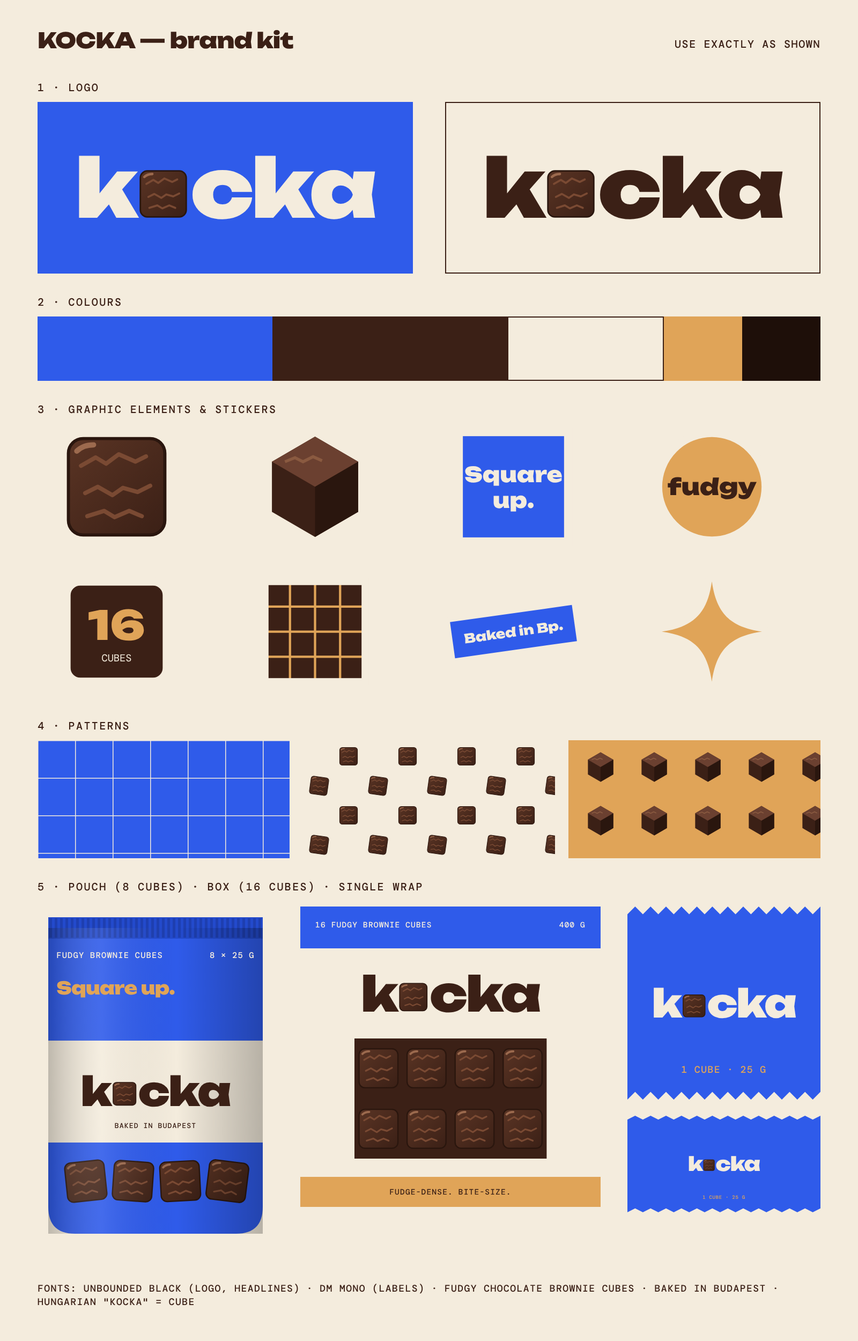
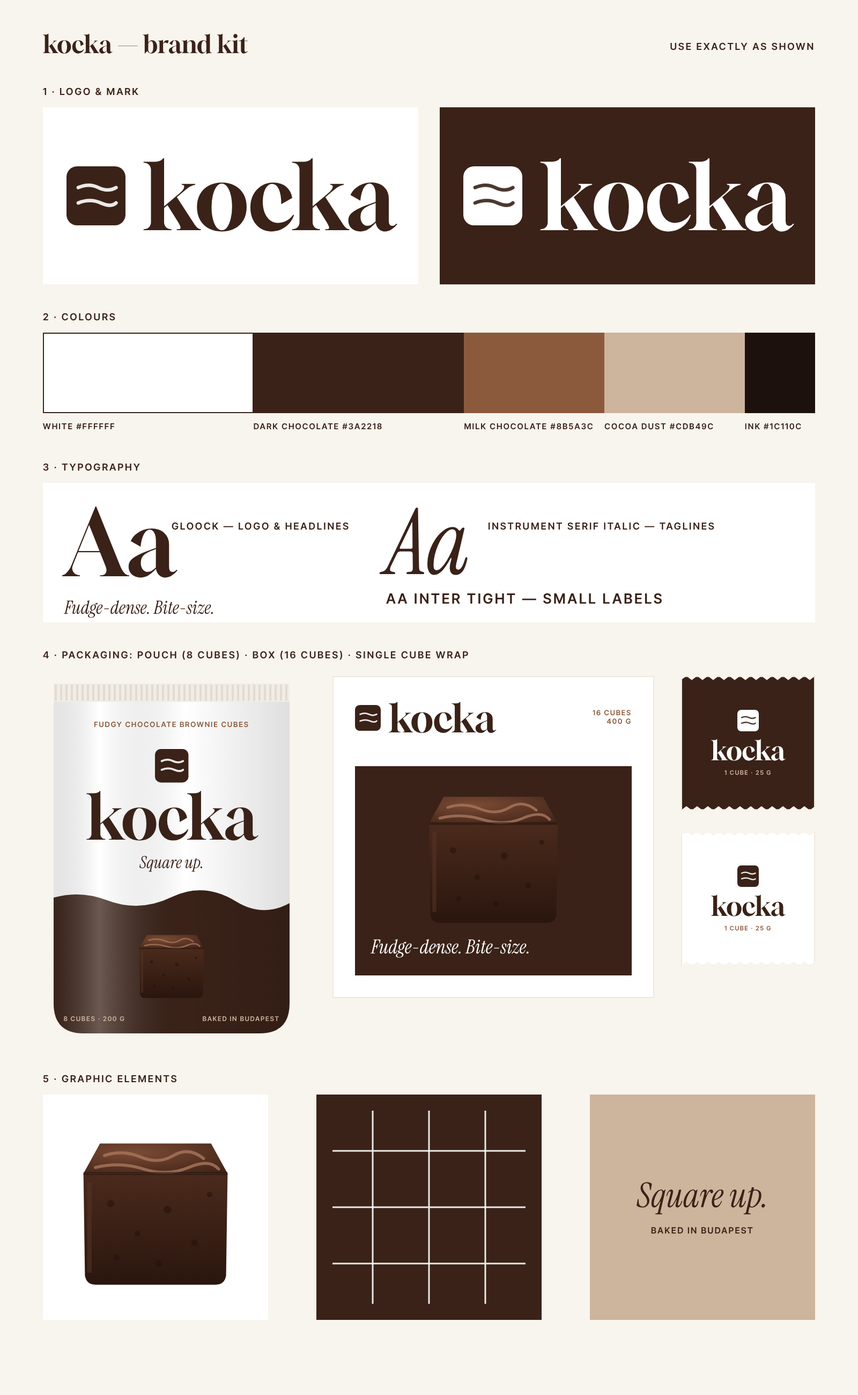
KOCKA v2: white + chocolate identity and packaging (cobalt version dropped)
Claude-Session: https://claude.ai/code/session_01FuZubXyqYQcha8AH4cMf93

diff --git a/reels/brands/kocka/kit.html b/reels/brands/kocka/kit.html
@@ -2,213 +2,120 @@
 <html lang="en">
 <head>
 <meta charset="utf-8">
-<title>KOCKA brand kit</title>
-<link href="https://fonts.googleapis.com/css2?family=Unbounded:wght@400;700;900&family=DM+Mono:wght@400;500&display=swap" rel="stylesheet">
+<title>KOCKA brand kit v2</title>
+<link href="https://fonts.googleapis.com/css2?family=Gloock&family=Instrument+Serif:ital@0;1&family=Inter+Tight:wght@500;600&display=swap" rel="stylesheet">
 <style>
-  :root{--choc:#3B2016;--cobalt:#2F5BEA;--cream:#F4ECDD;--caramel:#E0A458;--deep:#1E0F09}
+  /* KOCKA v2: white + chocolate. Premium, appetising, calm. */
+  :root{--white:#FFFFFF;--paper:#F8F4EE;--choc:#3A2218;--milk:#8B5A3C;--cocoa:#CDB49C;--ink:#1C110C}
   *{margin:0;padding:0;box-sizing:border-box}
   body{background:#222;width:1600px}
   section{position:relative;overflow:hidden}
   .abs{position:absolute}
   .center{display:flex;align-items:center;justify-content:center}
-  .ub{font-family:'Unbounded',sans-serif;font-weight:900;line-height:.95;letter-spacing:-.02em}
-  .mono{font-family:'DM Mono',monospace;font-weight:500;letter-spacing:.08em;text-transform:uppercase;line-height:1.4}
-  .label{font-family:'DM Mono';font-weight:500;font-size:20px;letter-spacing:.12em;color:var(--choc);text-transform:uppercase}
-  .lg{font-family:'Unbounded',sans-serif;font-weight:900;line-height:1;display:inline-flex;align-items:baseline;white-space:nowrap;letter-spacing:-.03em}
-  .lg .sq{display:inline-block;width:.62em;height:.62em;margin:0 .03em;position:relative;top:.01em}
+  .serif{font-family:'Gloock',serif;font-weight:400;line-height:.95}
+  .it{font-family:'Instrument Serif',serif;font-style:italic}
+  .sans{font-family:'Inter Tight',sans-serif;font-weight:600;letter-spacing:.14em;text-transform:uppercase}
+  .label{font-family:'Inter Tight';font-weight:600;font-size:18px;letter-spacing:.16em;color:var(--choc);text-transform:uppercase}
+  .lg{font-family:'Gloock',serif;line-height:1;white-space:nowrap;letter-spacing:-.01em}
   svg{overflow:visible}
-  .sk{width:1024px;height:1536px}
-  .shadow{box-shadow:16px 24px 34px rgba(30,15,9,.32)}
 </style>
 </head>
 <body>
 <svg width="0" height="0" style="position:absolute"><defs>
-  <!-- brownie square, viewBox -50 -50 100 100 -->
-  <linearGradient id="bt" x1="0" y1="0" x2="1" y2="1"><stop offset="0" stop-color="#5A3424"/><stop offset="1" stop-color="#3B2016"/></linearGradient>
-  <g id="brownie"><rect x="-46" y="-46" width="92" height="92" rx="14" fill="url(#bt)"/>
-    <path d="M-34 -20l14 -8 10 6 12 -9 16 7 10 -5M-30 6l12 -6 14 8 10 -7 14 4 12 -6M-28 28l16 -5 10 6 14 -6 12 5" fill="none" stroke="#7A4A33" stroke-width="4" stroke-linecap="round" stroke-linejoin="round"/>
-    <rect x="-46" y="-46" width="92" height="92" rx="14" fill="none" stroke="#2A160E" stroke-width="3"/>
-    <path d="M-38 -34q6 -6 16 -6" stroke="#9C6A4E" stroke-width="5" stroke-linecap="round" fill="none"/></g>
-  <!-- isometric cube -->
-  <g id="iso"><path d="M0 -50L43 -25V25L0 50L-43 25V-25Z" fill="#3B2016"/><path d="M0 -50L43 -25L0 0L-43 -25Z" fill="#6B4030"/><path d="M0 0L43 -25V25L0 50Z" fill="#2A160E"/>
-    <path d="M-30 -25l10 -4 8 4 10 -5 9 4" stroke="#8A5A40" stroke-width="3" fill="none"/></g>
+  <!-- brownie: a real-looking fudgy square seen slightly from above, viewBox -60 -60 120 120 -->
+  <linearGradient id="side" x1="0" y1="0" x2="0" y2="1"><stop offset="0" stop-color="#4A2A1C"/><stop offset="1" stop-color="#2A160E"/></linearGradient>
+  <radialGradient id="top" cx=".35" cy=".3" r=".9"><stop offset="0" stop-color="#7A4B34"/><stop offset=".55" stop-color="#5A3424"/><stop offset="1" stop-color="#3F2418"/></radialGradient>
+  <g id="brownie">
+    <path d="M-48 -26L-47 42Q-46 48 -40 48H40Q46 48 47 42L48 -26Z" fill="url(#side)"/>
+    <path d="M-48 -26L-37 -46H37L48 -26Z" fill="url(#top)"/>
+    <path d="M-34 -38Q-22 -42 -10 -37T12 -38T32 -36M-40 -30Q-24 -34 -8 -29T22 -30T42 -29" fill="none" stroke="#A3735A" stroke-width="2" stroke-linecap="round" opacity=".85"/>
+    <path d="M-48 -26H48" stroke="#2A160E" stroke-width="2" opacity=".6"/>
+    <g fill="#24120B" opacity=".55"><circle cx="-30" cy="-6" r="2.4"/><circle cx="-12" cy="14" r="2"/><circle cx="8" cy="-2" r="2.6"/><circle cx="26" cy="20" r="2.2"/><circle cx="-26" cy="30" r="2"/><circle cx="36" cy="-12" r="1.8"/><circle cx="2" cy="34" r="2.3"/></g>
+    <path d="M-44 -20V40" stroke="#5A3626" stroke-width="3" opacity=".5"/>
+  </g>
+  <!-- the mark: a simple rounded square, a brownie seen from above -->
+  <g id="mark"><rect x="-50" y="-50" width="100" height="100" rx="18" fill="currentColor"/>
+    <path d="M-30 -14Q-12 -22 4 -14T34 -14M-30 12Q-10 4 8 12T34 12" fill="none" stroke="var(--crack,#FFFFFF)" stroke-width="6" stroke-linecap="round" opacity=".9"/></g>
 </defs></svg>
 
 <!-- ================= KIT SHEET ================= -->
-<section data-out="brand-kit" style="width:1600px;height:2500px;background:var(--cream)">
-  <div class="abs ub" style="top:56px;left:70px;font-size:40px;color:var(--choc)">KOCKA — brand kit</div>
-  <div class="abs mono" style="top:68px;right:70px;font-size:20px;color:var(--choc)">Use exactly as shown</div>
+<section data-out="brand-kit" style="width:1600px;height:2600px;background:var(--paper)">
+  <div class="abs serif" style="top:60px;left:80px;font-size:46px;color:var(--choc)">kocka — brand kit</div>
+  <div class="abs label" style="top:76px;right:80px">Use exactly as shown</div>
 
-  <div class="abs label" style="top:150px;left:70px">1 · Logo</div>
-  <div class="abs center" style="top:190px;left:70px;width:700px;height:320px;background:var(--cobalt);color:var(--cream)"><div class="lg" style="font-size:150px"></div></div>
-  <div class="abs center" style="top:190px;left:830px;width:700px;height:320px;background:var(--cream);outline:2px solid var(--choc);outline-offset:-2px;color:var(--choc)"><div class="lg" style="font-size:150px"></div></div>
+  <div class="abs label" style="top:160px;left:80px">1 · Logo &amp; mark</div>
+  <div class="abs center" style="top:200px;left:80px;width:700px;height:330px;background:var(--white);color:var(--choc);gap:34px">
+    <svg width="110" height="110" viewBox="-50 -50 100 100" style="color:#3A2218"><use href="#mark"/></svg><div class="lg" style="font-size:170px">kocka</div></div>
+  <div class="abs center" style="top:200px;left:820px;width:700px;height:330px;background:var(--choc);color:var(--white);gap:34px">
+    <svg width="110" height="110" viewBox="-50 -50 100 100" style="color:#FFFFFF;--crack:#3A2218"><use href="#mark"/></svg><div class="lg" style="font-size:170px">kocka</div></div>
 
-  <div class="abs label" style="top:550px;left:70px">2 · Colours</div>
-  <div class="abs" style="top:590px;left:70px;width:1460px;height:120px;display:flex">
-    <div style="flex:3;background:var(--cobalt)"></div><div style="flex:3;background:var(--choc)"></div><div style="flex:2;background:var(--cream);outline:2px solid var(--choc);outline-offset:-2px"></div><div style="flex:1;background:var(--caramel)"></div><div style="flex:1;background:var(--deep)"></div></div>
+  <div class="abs label" style="top:580px;left:80px">2 · Colours</div>
+  <div class="abs" style="top:620px;left:80px;width:1440px;height:150px;display:flex;gap:0">
+    <div style="flex:3;background:#FFFFFF;outline:2px solid #3A2218;outline-offset:-2px"></div><div style="flex:3;background:#3A2218"></div><div style="flex:2;background:#8B5A3C"></div><div style="flex:2;background:#CDB49C"></div><div style="flex:1;background:#1C110C"></div></div>
+  <div class="abs sans" style="top:785px;left:80px;width:1440px;display:flex;font-size:15px;color:var(--choc)">
+    <div style="flex:3">White #FFFFFF</div><div style="flex:3">Dark chocolate #3A2218</div><div style="flex:2">Milk chocolate #8B5A3C</div><div style="flex:2">Cocoa dust #CDB49C</div><div style="flex:1">Ink #1C110C</div></div>
 
-  <div class="abs label" style="top:750px;left:70px">3 · Graphic elements &amp; stickers</div>
-  <svg class="abs" width="1460" height="520" style="top:790px;left:70px" data-stickers></svg>
+  <div class="abs label" style="top:860px;left:80px">3 · Typography</div>
+  <div class="abs" style="top:900px;left:80px;width:1440px;height:260px;background:var(--white);color:var(--choc)">
+    <div class="abs serif" style="left:40px;top:30px;font-size:170px">Aa</div><div class="abs label" style="left:240px;top:70px">Gloock — logo &amp; headlines</div>
+    <div class="abs it" style="left:640px;top:28px;font-size:170px;line-height:1">Aa</div><div class="abs label" style="left:830px;top:70px">Instrument Serif Italic — taglines</div>
+    <div class="abs sans" style="left:640px;top:200px;font-size:26px">Aa Inter Tight — small labels</div>
+    <div class="abs it" style="left:40px;top:210px;font-size:34px">Fudge-dense. Bite-size.</div></div>
 
-  <div class="abs label" style="top:1340px;left:70px">4 · Patterns</div>
-  <svg class="abs" width="1460" height="220" style="top:1380px;left:70px">
-    <defs>
-      <pattern id="p-grid" width="70" height="70" patternUnits="userSpaceOnUse"><rect width="70" height="70" fill="#2F5BEA"/><path d="M0 0H70M0 0V70" stroke="#F4ECDD" stroke-width="3"/></pattern>
-      <pattern id="p-sq" width="110" height="110" patternUnits="userSpaceOnUse"><rect width="110" height="110" fill="#F4ECDD"/><use href="#brownie" transform="translate(30 30) scale(.36)"/><use href="#brownie" transform="translate(85 85) scale(.36) rotate(8)"/></pattern>
-      <pattern id="p-iso" width="100" height="100" patternUnits="userSpaceOnUse"><rect width="100" height="100" fill="#E0A458"/><use href="#iso" transform="translate(50 50) scale(.55)"/></pattern>
-    </defs>
-    <rect width="470" height="220" fill="url(#p-grid)"/><rect x="495" width="470" height="220" fill="url(#p-sq)"/><rect x="990" width="470" height="220" fill="url(#p-iso)"/>
+  <div class="abs label" style="top:1210px;left:80px">4 · Packaging: pouch (8 cubes) · box (16 cubes) · single cube wrap</div>
+  <div class="abs" style="top:1260px;left:80px;width:480px;height:680px" data-pouch></div>
+  <div class="abs" style="top:1260px;left:620px;width:600px;height:600px" data-box></div>
+  <div class="abs" style="top:1260px;left:1270px;width:250px;height:250px" data-wrap></div>
+  <div class="abs" style="top:1550px;left:1270px;width:250px;height:250px" data-wrap="white"></div>
+
+  <div class="abs label" style="top:2000px;left:80px">5 · Graphic elements</div>
+  <svg class="abs" width="1440" height="420" style="top:2040px;left:80px">
+    <rect width="420" height="420" fill="#FFFFFF"/><use href="#brownie" transform="translate(210 220) scale(2.8)"/>
+    <rect x="510" width="420" height="420" fill="#3A2218"/>
+    <rect x="1020" width="420" height="420" fill="#CDB49C"/>
   </svg>
-
-  <div class="abs label" style="top:1640px;left:70px">5 · Pouch (8 cubes) · Box (16 cubes) · Single wrap</div>
-  <div class="abs" style="top:1690px;left:70px;width:440px;height:620px" data-pouch></div>
-  <div class="abs" style="top:1690px;left:560px;width:560px;height:560px" data-box></div>
-  <div class="abs" style="top:1690px;left:1170px;width:360px;height:360px" data-wrap></div>
-  <div class="abs" style="top:2080px;left:1170px;width:360px;height:180px" data-wrap="flat"></div>
-  <div class="abs mono" style="top:2390px;left:70px;right:70px;font-size:18px;color:var(--choc)">Fonts: Unbounded Black (logo, headlines) · DM Mono (labels) · Fudgy chocolate brownie cubes · Baked in Budapest · Hungarian "kocka" = cube</div>
-</section>
-
-<!-- ================= SCENE SKETCHES (1024x1536) ================= -->
-<section data-out="sk-0-monitor" class="sk" style="background:#CFC6B8">
-  <div class="abs" style="left:0;right:0;top:1050px;bottom:0;background:linear-gradient(#B98A5E,#9C6E46)"></div>
-  <div class="abs" style="left:60px;right:60px;top:170px;height:760px;background:#1A1A1C;border-radius:22px"></div>
-  <div class="abs" style="left:92px;right:92px;top:200px;height:690px;background:#2F5BEA"></div>
-  <div class="abs" style="left:452px;top:930px;width:120px;height:110px;background:#2A2A2C"></div>
-  <div class="abs" style="left:372px;top:1040px;width:280px;height:24px;border-radius:12px;background:#2A2A2C"></div>
-  <div class="abs" style="left:120px;top:1180px;width:560px;height:150px;border-radius:12px;background:#E8E4DC;box-shadow:0 10px 20px rgba(0,0,0,.25)"></div>
-  <div class="abs" style="left:720px;top:1090px;width:200px;height:290px;transform:rotate(8deg)" data-pouch></div>
-  <svg class="abs" width="200" height="200" style="left:610px;top:1300px"><use href="#brownie" transform="translate(70 70) scale(.9) rotate(-10)"/></svg>
-</section>
-
-<section data-out="sk-1-pouch-tear" class="sk" style="background:#2F5BEA">
-  <div class="abs shadow" style="left:262px;top:360px;width:500px;height:700px;transform:rotate(-6deg)" data-pouch></div>
-  <svg class="abs" width="1024" height="1536">
-    <use href="#brownie" transform="translate(470 300) scale(1.1) rotate(-12)"/><use href="#brownie" transform="translate(600 230) scale(.9) rotate(14)"/>
-  </svg>
-</section>
-
-<section data-out="sk-2-shelf" class="sk" style="background:#EDEAE4">
-  <div class="abs" style="left:0;right:0;top:0;height:120px;background:#F7F5F0"></div>
-  <div data-shelf></div>
-</section>
-
-<section data-out="sk-3-cube-closeup" class="sk" style="background:#E0A458">
-  <div class="abs" style="left:620px;top:200px;width:330px;height:460px;filter:blur(3px);opacity:.9" data-pouch></div>
-  <svg class="abs" width="1024" height="1536"><use href="#brownie" transform="translate(500 820) scale(4.6) rotate(-6)"/></svg>
-</section>
-
-<section data-out="sk-4-box-top" class="sk" style="background:#F4ECDD">
-  <div class="abs shadow" style="left:112px;top:368px;width:800px;height:800px;background:#3B2016;border:18px solid #2F5BEA"></div>
-  <svg class="abs" width="1024" height="1536" data-boxtop></svg>
-</section>
-
-<section data-out="sk-5-floating" class="sk" style="background:#2F5BEA">
-  <div class="abs" style="left:300px;top:430px;width:430px;height:600px;transform:rotate(10deg);box-shadow:20px 30px 40px rgba(0,0,0,.3)" data-pouch></div>
-  <svg class="abs" width="1024" height="1536">
-    <use href="#brownie" transform="translate(200 300) scale(1.2) rotate(-20)"/><use href="#brownie" transform="translate(820 360) scale(1) rotate(25)"/>
-    <use href="#brownie" transform="translate(180 1150) scale(1.3) rotate(15)"/><use href="#brownie" transform="translate(830 1180) scale(1.1) rotate(-14)"/>
-    <use href="#brownie" transform="translate(520 1300) scale(.8) rotate(32)"/></svg>
-</section>
-
-<section data-out="sk-6-basket" class="sk" style="background:#F4ECDD">
-  <div class="abs" style="left:110px;top:560px;width:800px;height:620px;background:#2F5BEA;border-radius:30px 30px 60px 60px"></div>
-  <div class="abs" style="left:260px;top:360px;width:500px;height:300px;border:26px solid #234ACC;border-bottom:none;border-radius:250px 250px 0 0"></div>
-  <div class="abs" style="left:190px;top:380px;width:330px;height:330px;transform:rotate(-8deg)" data-box></div>
-  <div class="abs" style="left:540px;top:330px;width:230px;height:330px;transform:rotate(9deg)" data-pouch></div>
-  <div class="abs" style="left:110px;top:640px;width:800px;height:540px;background:repeating-linear-gradient(90deg,#2F5BEA 0 70px,#234ACC 70px 90px);border-radius:0 0 60px 60px"></div>
-</section>
-
-<section data-out="sk-7-still-life" class="sk" style="background:#F4ECDD">
-  <div class="abs" style="left:0;right:0;top:1100px;bottom:0;background:#E9DFCC"></div>
-  <div class="abs" style="left:90px;top:900px;width:420px;height:300px;background:#E0A458"></div>
-  <div class="abs" style="left:520px;top:780px;width:420px;height:420px;background:#2F5BEA"></div>
-  <div class="abs shadow" style="left:110px;top:470px;width:380px;height:430px" data-pouch></div>
-  <div class="abs shadow" style="left:560px;top:420px;width:340px;height:340px" data-box></div>
-  <svg class="abs" width="1024" height="1536"><use href="#brownie" transform="translate(300 1300) scale(1.1) rotate(-8)"/><use href="#brownie" transform="translate(470 1330) scale(.95) rotate(12)"/><use href="#brownie" transform="translate(760 1310) scale(1.05) rotate(4)"/></svg>
-</section>
-
-<section data-out="sk-8-wraps" class="sk" style="background:#3B2016">
-  <div data-wrappile></div>
-</section>
-
-<section data-out="sk-9-billboard" class="sk" style="background:#9DB4CF">
-  <div class="abs" style="left:0;right:0;top:1180px;bottom:0;background:#8E8C88"></div>
-  <div class="abs" style="left:150px;top:210px;width:724px;height:1010px;background:#2A2A2C;border-radius:10px"></div>
-  <div class="abs" style="left:180px;top:240px;width:664px;height:950px;background:#2F5BEA;overflow:hidden">
-    <div class="abs ub" style="left:40px;top:50px;font-size:118px;color:#F4ECDD;line-height:.9">Square<br>up.</div>
-    <div class="abs" style="left:300px;top:380px;width:330px;height:470px;transform:rotate(8deg)" data-pouch></div>
-    <svg class="abs" width="664" height="950"><use href="#brownie" transform="translate(150 640) scale(1.9) rotate(-10)"/></svg>
-    <div class="abs center" style="left:30px;bottom:30px;color:#F4ECDD"><div class="lg" style="font-size:60px"></div></div>
-  </div>
-  <div class="abs" style="left:480px;top:1220px;width:64px;height:316px;background:#2A2A2C"></div>
-</section>
-
-<section data-out="sk-10-lunchbox" class="sk" style="background:#E0A458">
-  <div class="abs shadow" style="left:120px;top:420px;width:784px;height:700px;background:#F4ECDD;border-radius:40px;border:14px solid #FFFFFF"></div>
-  <div class="abs" style="left:170px;top:470px;width:330px;height:600px;background:#CFE0B4;border-radius:24px"></div>
-  <div class="abs" style="left:540px;top:470px;width:320px;height:290px;background:#F7F3EA;border-radius:24px"></div>
-  <div class="abs" style="left:560px;top:490px;width:280px;height:250px" data-wrap></div>
-  <svg class="abs" width="1024" height="1536"><use href="#brownie" transform="translate(620 900) scale(1.1) rotate(-6)"/><use href="#brownie" transform="translate(780 940) scale(1.1) rotate(10)"/></svg>
-</section>
-
-<section data-out="sk-11-box-hand" class="sk" style="background:#EDEAE4">
-  <div class="abs shadow" style="left:212px;top:420px;width:600px;height:600px;transform:rotate(-4deg)" data-box></div>
+  <div class="abs" style="top:2040px;left:590px;width:420px;height:420px;color:#FFFFFF" data-grid></div>
+  <div class="abs center" style="top:2040px;left:1100px;width:420px;height:420px;flex-direction:column;color:#3A2218;text-align:center">
+    <div class="it" style="font-size:64px;line-height:1">Square up.</div><div class="sans" style="font-size:16px;margin-top:22px">Baked in Budapest</div></div>
 </section>
 
 <script>
-const NS='http://www.w3.org/2000/svg';
-const SQ=`<svg class="sq" viewBox="-50 -50 100 100"><use href="#brownie"/></svg>`;
-const LOGO=`<span>k</span>${SQ}<span>cka</span>`;
-const STICKERS={
-  brownie:`<use href="#brownie" transform="translate(150 150) scale(2.3)"/>`,
-  iso:`<use href="#iso" transform="translate(150 150) scale(2.2)"/>`,
-  squareup:`<rect x="30" y="30" width="240" height="240" fill="#2F5BEA" stroke="#F4ECDD" stroke-width="18"/><text x="150" y="140" text-anchor="middle" font-family="Unbounded" font-weight="900" font-size="46" fill="#F4ECDD">Square</text><text x="150" y="196" text-anchor="middle" font-family="Unbounded" font-weight="900" font-size="46" fill="#F4ECDD">up.</text>`,
-  fudgy:`<circle cx="150" cy="150" r="118" fill="#E0A458" stroke="#F4ECDD" stroke-width="18"/><text x="150" y="168" text-anchor="middle" font-family="Unbounded" font-weight="900" font-size="50" fill="#3B2016">fudgy</text>`,
-  sixteen:`<rect x="40" y="40" width="220" height="220" rx="30" fill="#3B2016" stroke="#F4ECDD" stroke-width="18"/><text x="150" y="168" text-anchor="middle" font-family="Unbounded" font-weight="900" font-size="88" fill="#E0A458">16</text><text x="150" y="215" text-anchor="middle" font-family="DM Mono" font-size="22" fill="#F4ECDD">CUBES</text>`,
-  grid:`<g transform="translate(40 40)"><rect width="220" height="220" fill="#3B2016"/>${[0,1,2,3].map(i=>`<path d="M${i*55} 0V220M0 ${i*55}H220" stroke="#E0A458" stroke-width="5"/>`).join('')}<rect width="220" height="220" fill="none" stroke="#F4ECDD" stroke-width="16"/></g>`,
-  bp:`<g transform="rotate(-8 150 150)"><rect x="5" y="100" width="290" height="100" fill="#F4ECDD"/><rect x="15" y="110" width="270" height="80" fill="#2F5BEA"/><text x="150" y="161" text-anchor="middle" font-family="Unbounded" font-weight="900" font-size="28" fill="#F4ECDD">Baked in Bp.</text></g>`,
-  spark:`<path d="M150 40C160 110 190 140 260 150C190 160 160 190 150 260C140 190 110 160 40 150C110 140 140 110 150 40Z" fill="#E0A458" stroke="#F4ECDD" stroke-width="30" stroke-linejoin="round" paint-order="stroke"/>`,
-};
-function drawSticker(svg,key,x,y,s=1,rot=0){const g=document.createElementNS(NS,'g');g.setAttribute('transform',`translate(${x} ${y}) rotate(${rot} ${150*s} ${150*s}) scale(${s})`);g.innerHTML=STICKERS[key];svg.appendChild(g);}
-document.querySelectorAll('[data-stickers]').forEach(svg=>Object.keys(STICKERS).forEach((k,i)=>drawSticker(svg,k,(i%4)*370+20,Math.floor(i/4)*270-10,.85)));
-// box top-down: 16 brownies in grid
-document.querySelectorAll('[data-boxtop]').forEach(s=>{s.innerHTML=Array.from({length:16},(_,i)=>`<use href="#brownie" transform="translate(${242+(i%4)*180} ${498+Math.floor(i/4)*180}) scale(1.62) rotate(${(i*37%9)-4})"/>`).join('');});
-// supermarket shelf of pouches and boxes
-document.querySelectorAll('[data-shelf]').forEach(el=>{let h='';for(let r=0;r<3;r++){const y=170+r*450;h+=`<div class="abs" style="left:0;right:0;top:${y+400}px;height:40px;background:#D9D4CA;box-shadow:0 8px 12px rgba(0,0,0,.2)"></div>`;
-  for(let c=0;c<5;c++){h+= r===1?`<div class="abs" style="left:${20+c*200}px;top:${y+190}px;width:190px;height:210px" data-box></div>`:`<div class="abs" style="left:${25+c*200}px;top:${y+130}px;width:180px;height:270px" data-pouch></div>`;}}
-  el.innerHTML=h;});
-// wrap pile
-document.querySelectorAll('[data-wrappile]').forEach(el=>{let h='';[[120,260,-12],[420,210,8],[690,300,-5],[200,620,10],[520,560,-14],[760,700,6],[110,980,-4],[430,920,12],[700,1060,-9],[300,1250,5],[620,1300,-7]].forEach(p=>{h+=`<div class="abs" style="left:${p[0]}px;top:${p[1]}px;width:250px;height:250px;transform:rotate(${p[2]}deg);box-shadow:10px 14px 20px rgba(0,0,0,.35)" data-wrap></div>`;});el.innerHTML=h;});
-const fill=(sel,fn)=>document.querySelectorAll(sel).forEach(el=>{if(!el.style.position)el.style.position='absolute';el.innerHTML=fn(el.offsetWidth,el.offsetHeight,el);});
-// stand-up pouch: cobalt, crimped top seal, cream panel with logo, brownie window
-fill('[data-pouch]',(w,h)=>`<svg width="${w}" height="${h}" viewBox="0 0 440 620" preserveAspectRatio="none" style="position:absolute;inset:0">
-  <defs><linearGradient id="ps${w}" x1="0" x2="1"><stop offset="0" stop-color="#000" stop-opacity=".22"/><stop offset=".25" stop-color="#fff" stop-opacity=".10"/><stop offset=".6" stop-color="#000" stop-opacity="0"/><stop offset="1" stop-color="#000" stop-opacity=".25"/></linearGradient></defs>
-  <path d="M20 40H420V560Q420 610 370 610H70Q20 610 20 560Z" fill="#2F5BEA"/>
-  <rect x="20" y="20" width="400" height="40" fill="#234ACC"/>${Array.from({length:40},(_,i)=>`<rect x="${22+i*10}" y="22" width="5" height="36" fill="#1E3FB0"/>`).join('')}
-  <rect x="20" y="250" width="400" height="190" fill="#F4ECDD"/>
-  <g>${[0,1,2,3].map(i=>`<use href="#brownie" transform="translate(${90+i*88} 512) scale(.8) rotate(${[-6,4,-3,7][i]})"/>`).join('')}</g>
-  <rect x="20" y="40" width="400" height="570" fill="url(#ps${w})"/></svg>
-  <div class="mono" style="position:absolute;left:${w*.08}px;top:${h*.13}px;font-size:${w*.035}px;color:#F4ECDD">Fudgy brownie cubes</div>
-  <div class="mono" style="position:absolute;right:${w*.08}px;top:${h*.13}px;font-size:${w*.035}px;color:#F4ECDD;text-align:right">8 × 25 g</div>
-  <div class="ub" style="position:absolute;left:${w*.08}px;top:${h*.22}px;font-size:${w*.075}px;color:#E0A458">Square up.</div>
-  <div class="center" style="position:absolute;left:0;right:0;top:${h*.4}px;height:${h*.31}px;color:#3B2016"><div class="lg" style="font-size:${w*.17}px"></div></div>
-  <div class="mono" style="position:absolute;left:0;right:0;top:${h*.645}px;text-align:center;font-size:${w*.03}px;color:#3B2016">Baked in Budapest</div>`);
-// box of 16: square box, chocolate band, grid window
-fill('[data-box]',(w,h)=>`<div style="position:absolute;inset:0;background:#F4ECDD;overflow:hidden;color:#3B2016">
-  <div style="position:absolute;left:0;right:0;top:0;height:${h*.14}px;background:#2F5BEA"></div>
-  <div class="mono" style="position:absolute;left:${w*.05}px;top:${h*.045}px;font-size:${w*.026}px;color:#F4ECDD">16 fudgy brownie cubes</div>
-  <div class="mono" style="position:absolute;right:${w*.05}px;top:${h*.045}px;font-size:${w*.026}px;color:#F4ECDD">400 g</div>
-  <div class="center" style="position:absolute;left:0;right:0;top:${h*.18}px;height:${h*.22}px"><div class="lg" style="font-size:${w*.16}px"></div></div>
-  <svg style="position:absolute;left:${w*.18}px;top:${h*.44}px" width="${w*.64}" height="${w*.4}" viewBox="0 0 400 250"><rect width="400" height="250" fill="#3B2016"/>
-   ${Array.from({length:8},(_,i)=>`<use href="#brownie" transform="translate(${50+(i%4)*100} ${62+Math.floor(i/4)*126}) scale(.88)"/>`).join('')}</svg>
-  <div style="position:absolute;left:0;right:0;bottom:0;height:${h*.1}px;background:#E0A458"></div>
-  <div class="mono" style="position:absolute;left:0;right:0;bottom:${h*.03}px;text-align:center;font-size:${w*.026}px">Fudge-dense. Bite-size.</div></div>`);
-// single wrap: small square foil pack
-fill('[data-wrap]',(w,h,el)=>{const flat=el.dataset.wrap==='flat';return `<div style="position:absolute;inset:0;background:#2F5BEA;overflow:hidden;color:#F4ECDD;clip-path:polygon(0 4%,4% 0,8% 4%,12% 0,16% 4%,20% 0,24% 4%,28% 0,32% 4%,36% 0,40% 4%,44% 0,48% 4%,52% 0,56% 4%,60% 0,64% 4%,68% 0,72% 4%,76% 0,80% 4%,84% 0,88% 4%,92% 0,96% 4%,100% 0,100% 96%,96% 100%,92% 96%,88% 100%,84% 96%,80% 100%,76% 96%,72% 100%,68% 96%,64% 100%,60% 96%,56% 100%,52% 96%,48% 100%,44% 96%,40% 100%,36% 96%,32% 100%,28% 96%,24% 100%,20% 96%,16% 100%,12% 96%,8% 100%,4% 96%,0 100%)">
-  <div class="center" style="position:absolute;inset:0"><div class="lg" style="font-size:${(flat?h:w)*.2}px"></div></div>
-  <div class="mono" style="position:absolute;left:0;right:0;bottom:${h*.12}px;text-align:center;font-size:${(flat?h:w)*.05}px;color:#E0A458">1 cube · 25 g</div></div>`;});
-document.querySelectorAll('.lg').forEach(el=>el.innerHTML=LOGO);
+const fill=(sel,fn)=>document.querySelectorAll(sel).forEach(el=>{el.style.position='absolute';el.innerHTML=fn(el.offsetWidth,el.offsetHeight,el);});
+const MARK=(c,crack)=>`<svg width="100%" height="100%" viewBox="-50 -50 100 100" style="color:${c};--crack:${crack}"><use href="#mark"/></svg>`;
+// pouch: white matte stand-up pouch, chocolate "melted" lower half, logo top, real brownie on the chocolate
+fill('[data-pouch]',(w,h)=>`<svg width="${w}" height="${h}" viewBox="0 0 480 680" preserveAspectRatio="none" style="position:absolute;inset:0">
+  <defs><clipPath id="pc${w}"><path d="M20 30H460V610Q460 666 404 666H76Q20 666 20 610Z"/></clipPath>
+   <linearGradient id="pg${w}" x1="0" x2="1"><stop offset="0" stop-color="#000" stop-opacity=".10"/><stop offset=".22" stop-color="#fff" stop-opacity=".25"/><stop offset=".55" stop-color="#000" stop-opacity="0"/><stop offset="1" stop-color="#000" stop-opacity=".14"/></linearGradient></defs>
+  <g clip-path="url(#pc${w})"><rect width="480" height="680" fill="#FFFFFF"/>
+   <path d="M0 420Q60 395 120 418T240 412T360 420T480 410V680H0Z" fill="#3A2218"/>
+   <rect width="480" height="680" fill="url(#pg${w})"/></g>
+  <rect x="20" y="14" width="440" height="34" fill="#F1ECE5"/>${Array.from({length:44},(_,i)=>`<rect x="${22+i*10}" y="16" width="4" height="30" fill="#E2DBD1"/>`).join('')}
+  <use href="#brownie" transform="translate(240 540) scale(1.25)"/></svg>
+  <div class="sans" style="position:absolute;left:0;right:0;top:${h*.12}px;text-align:center;font-size:${w*.028}px;color:#8B5A3C">Fudgy chocolate brownie cubes</div>
+  <div style="position:absolute;left:0;right:0;top:${h*.2}px;display:flex;flex-direction:column;align-items:center;color:#3A2218">
+    <div style="width:${w*.13}px;height:${w*.13}px">${MARK('#3A2218','#FFFFFF')}</div>
+    <div class="lg" style="font-size:${w*.24}px;margin-top:${h*.01}px">kocka</div>
+    <div class="it" style="font-size:${w*.065}px;margin-top:${h*.01}px">Square up.</div></div>
+  <div class="sans" style="position:absolute;left:${w*.08}px;bottom:${h*.05}px;font-size:${w*.025}px;color:#CDB49C">8 cubes · 200 g</div>
+  <div class="sans" style="position:absolute;right:${w*.08}px;bottom:${h*.05}px;font-size:${w*.025}px;color:#CDB49C">Baked in Budapest</div>`);
+// box of 16: white square box, big chocolate square on the front holding the brownie
+fill('[data-box]',(w,h)=>`<div style="position:absolute;inset:0;background:#FFFFFF;color:#3A2218;box-shadow:inset 0 0 0 2px #EFE8DF">
+  <div style="position:absolute;left:${w*.07}px;top:${h*.07}px;display:flex;align-items:center;gap:${w*.025}px">
+    <div style="width:${w*.08}px;height:${w*.08}px">${MARK('#3A2218','#FFFFFF')}</div><div class="lg" style="font-size:${w*.12}px">kocka</div></div>
+  <div class="sans" style="position:absolute;right:${w*.07}px;top:${h*.1}px;font-size:${w*.022}px;text-align:right;color:#8B5A3C">16 cubes<br>400 g</div>
+  <div style="position:absolute;left:${w*.07}px;right:${w*.07}px;top:${h*.28}px;bottom:${h*.07}px;background:#3A2218">
+    <svg style="position:absolute;left:50%;top:44%;transform:translate(-50%,-50%)" width="${w*.5}" height="${w*.5}" viewBox="-60 -60 120 120"><use href="#brownie"/></svg>
+    <div class="it" style="position:absolute;left:${w*.05}px;bottom:${h*.05}px;font-size:${w*.06}px;color:#FFFFFF">Fudge-dense. Bite-size.</div>
+    </div></div>`);
+// single wrap: crinkle-edged square wrapper
+fill('[data-wrap]',(w,h,el)=>{const white=el.dataset.wrap==='white';const bg=white?'#FFFFFF':'#3A2218',fg=white?'#3A2218':'#FFFFFF';
+  const zz=Array.from({length:26},(_,i)=>`${i*4}% ${i%2?0:3}%`).join(',')+','+Array.from({length:26},(_,i)=>`${100-i*4}% ${i%2?100:97}%`).join(',');
+  return `<div style="position:absolute;inset:0;background:${bg};color:${fg};clip-path:polygon(${zz});box-shadow:inset 0 0 0 2px #EFE8DF">
+  <div class="center" style="position:absolute;inset:0;flex-direction:column;gap:${h*.04}px">
+    <div style="width:${w*.16}px;height:${w*.16}px">${MARK(fg,bg)}</div><div class="lg" style="font-size:${w*.2}px">kocka</div>
+    <div class="sans" style="font-size:${w*.045}px;color:${white?'#8B5A3C':'#CDB49C'}">1 cube · 25 g</div></div></div>`;});
+// cut-grid graphic
+fill('[data-grid]',(w,h)=>`<svg width="${w}" height="${h}"><rect width="${w}" height="${h}" fill="#3A2218"/>${[1,2,3].map(i=>`<path d="M${i*w/4} 30V${h-30}M30 ${i*h/4}H${w-30}" stroke="#FFFFFF" stroke-width="3" opacity=".9"/>`).join('')}</svg>`);
 </script>
-
 </body>
 </html>

diff --git a/reels/brands/kocka/brand.md b/reels/brands/kocka/brand.md
@@ -3,11 +3,10 @@
 - **Name:** "kocka" is Hungarian for *cube*. A brownie is cut into cubes, so the name is the product.
 - **What:** a supermarket snack brand: fudgy chocolate brownie cubes, baked in Budapest. Sold as a stand-up pouch of 8 cubes, a box of 16, and single-wrapped cubes for lunchboxes.
 - **Audience:** young shoppers and office snackers who want a treat that looks better than the usual chocolate aisle.
-- **Logo:** lowercase "kocka" in Unbounded Black (wide, geometric, bold). The "o" is a brownie square with a crackly top: the cube in the name.
-- **Identity system:** built on the brownie's square cuts: grids, squares, cube patterns, and a big square "o" used as a supergraphic. No mascot; the square is the character.
-- **Palette:** Chocolate `#3B2016` · Cobalt `#2F5BEA` · Cream `#F4ECDD` · Caramel `#E0A458` · Deep cocoa `#1E0F09`
-  - Chocolate and caramel are the brownie; cobalt makes the pack jump off a brown chocolate aisle.
-- **Type:** Unbounded Black (logo, headlines) · DM Mono (labels, info)
+- **Logo:** lowercase "kocka" in Gloock (a warm, chunky serif) next to the mark: a rounded chocolate square with two crackle lines, a brownie cube seen from above.
+- **Identity system (v2, white + chocolate):** premium and appetising. White matte packs with a melted-chocolate lower half or a big chocolate panel, the brownie cube as hero, a cut-grid graphic. No mascot.
+- **Palette:** White `#FFFFFF` · Dark chocolate `#3A2218` · Milk chocolate `#8B5A3C` · Cocoa dust `#CDB49C` · Ink `#1C110C` (the first cobalt version was rejected: blue doesn't suit a brownie).
+- **Type:** Gloock (logo, headlines) · Instrument Serif Italic (taglines) · Inter Tight (small labels)
 - **Lines:** "Square up." · "Fudge-dense. Bite-size." · "Baked in Budapest."
 - **Shots rule:** every photo features the brownie cubes or packaging holding them (pouch, box, single wrap, supermarket shelf). No shop or café.
-- **Reel format:** Luwak-style desk reveal on `music/ref-luwak.mp4` (song ends 6.38 s; drop about 3.45 s; last real beat 6.13 s). End card: cream 23 on deep cocoa `#1E0F09`.
+- **Reel format:** Luwak-style desk reveal on `music/ref-luwak.mp4` (song ends 6.38 s; drop about 3.45 s; last real beat 6.13 s). End card: white 23 on ink `#1C110C`.
